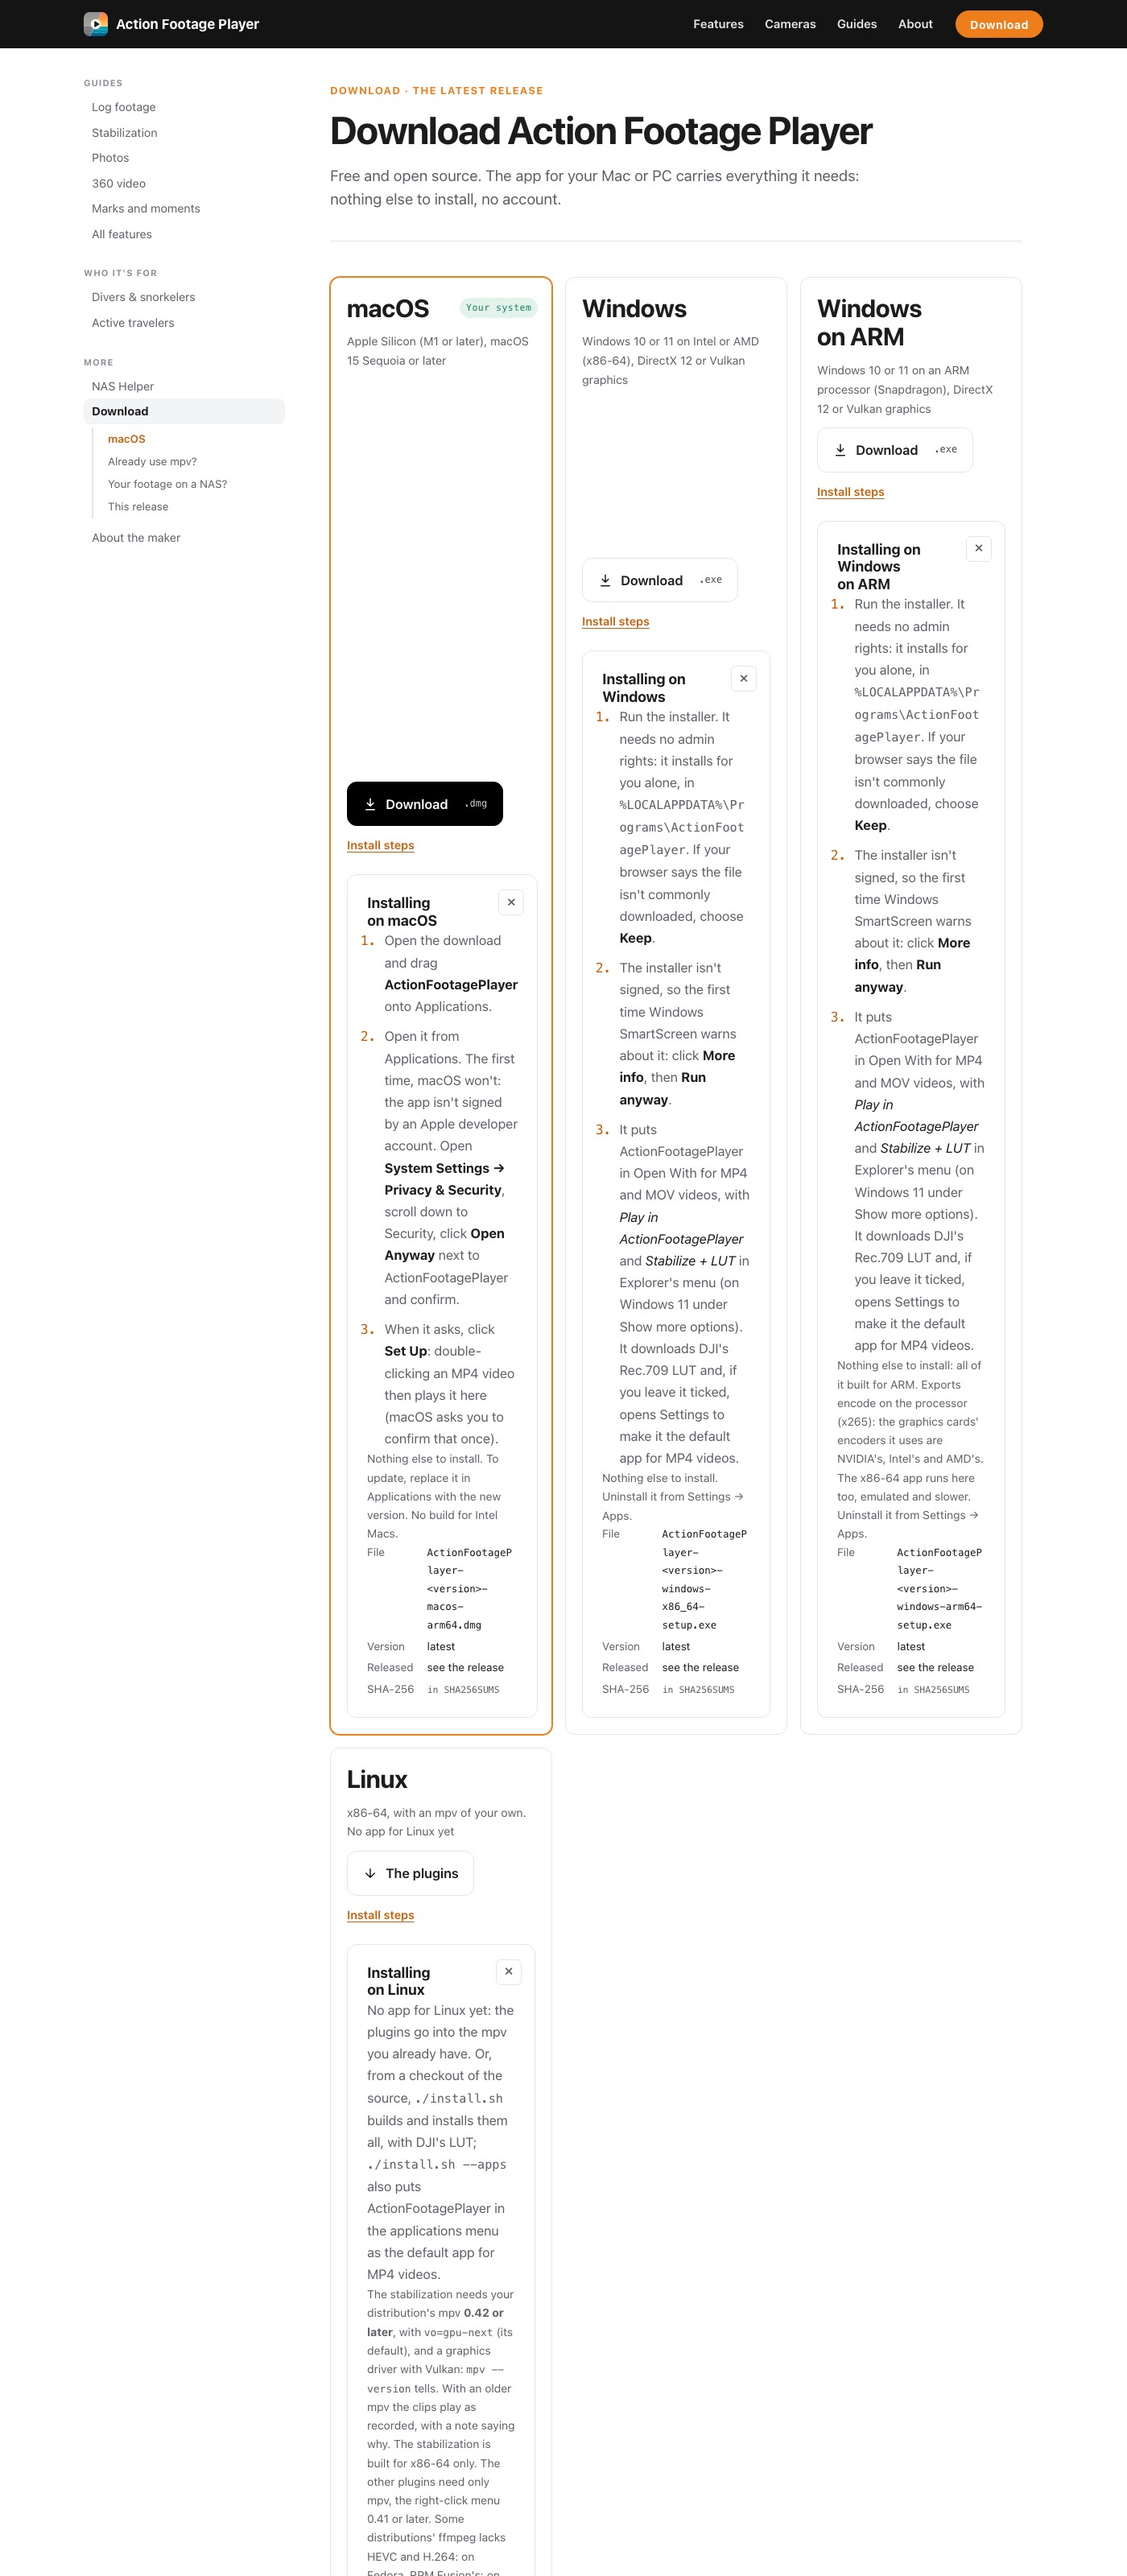
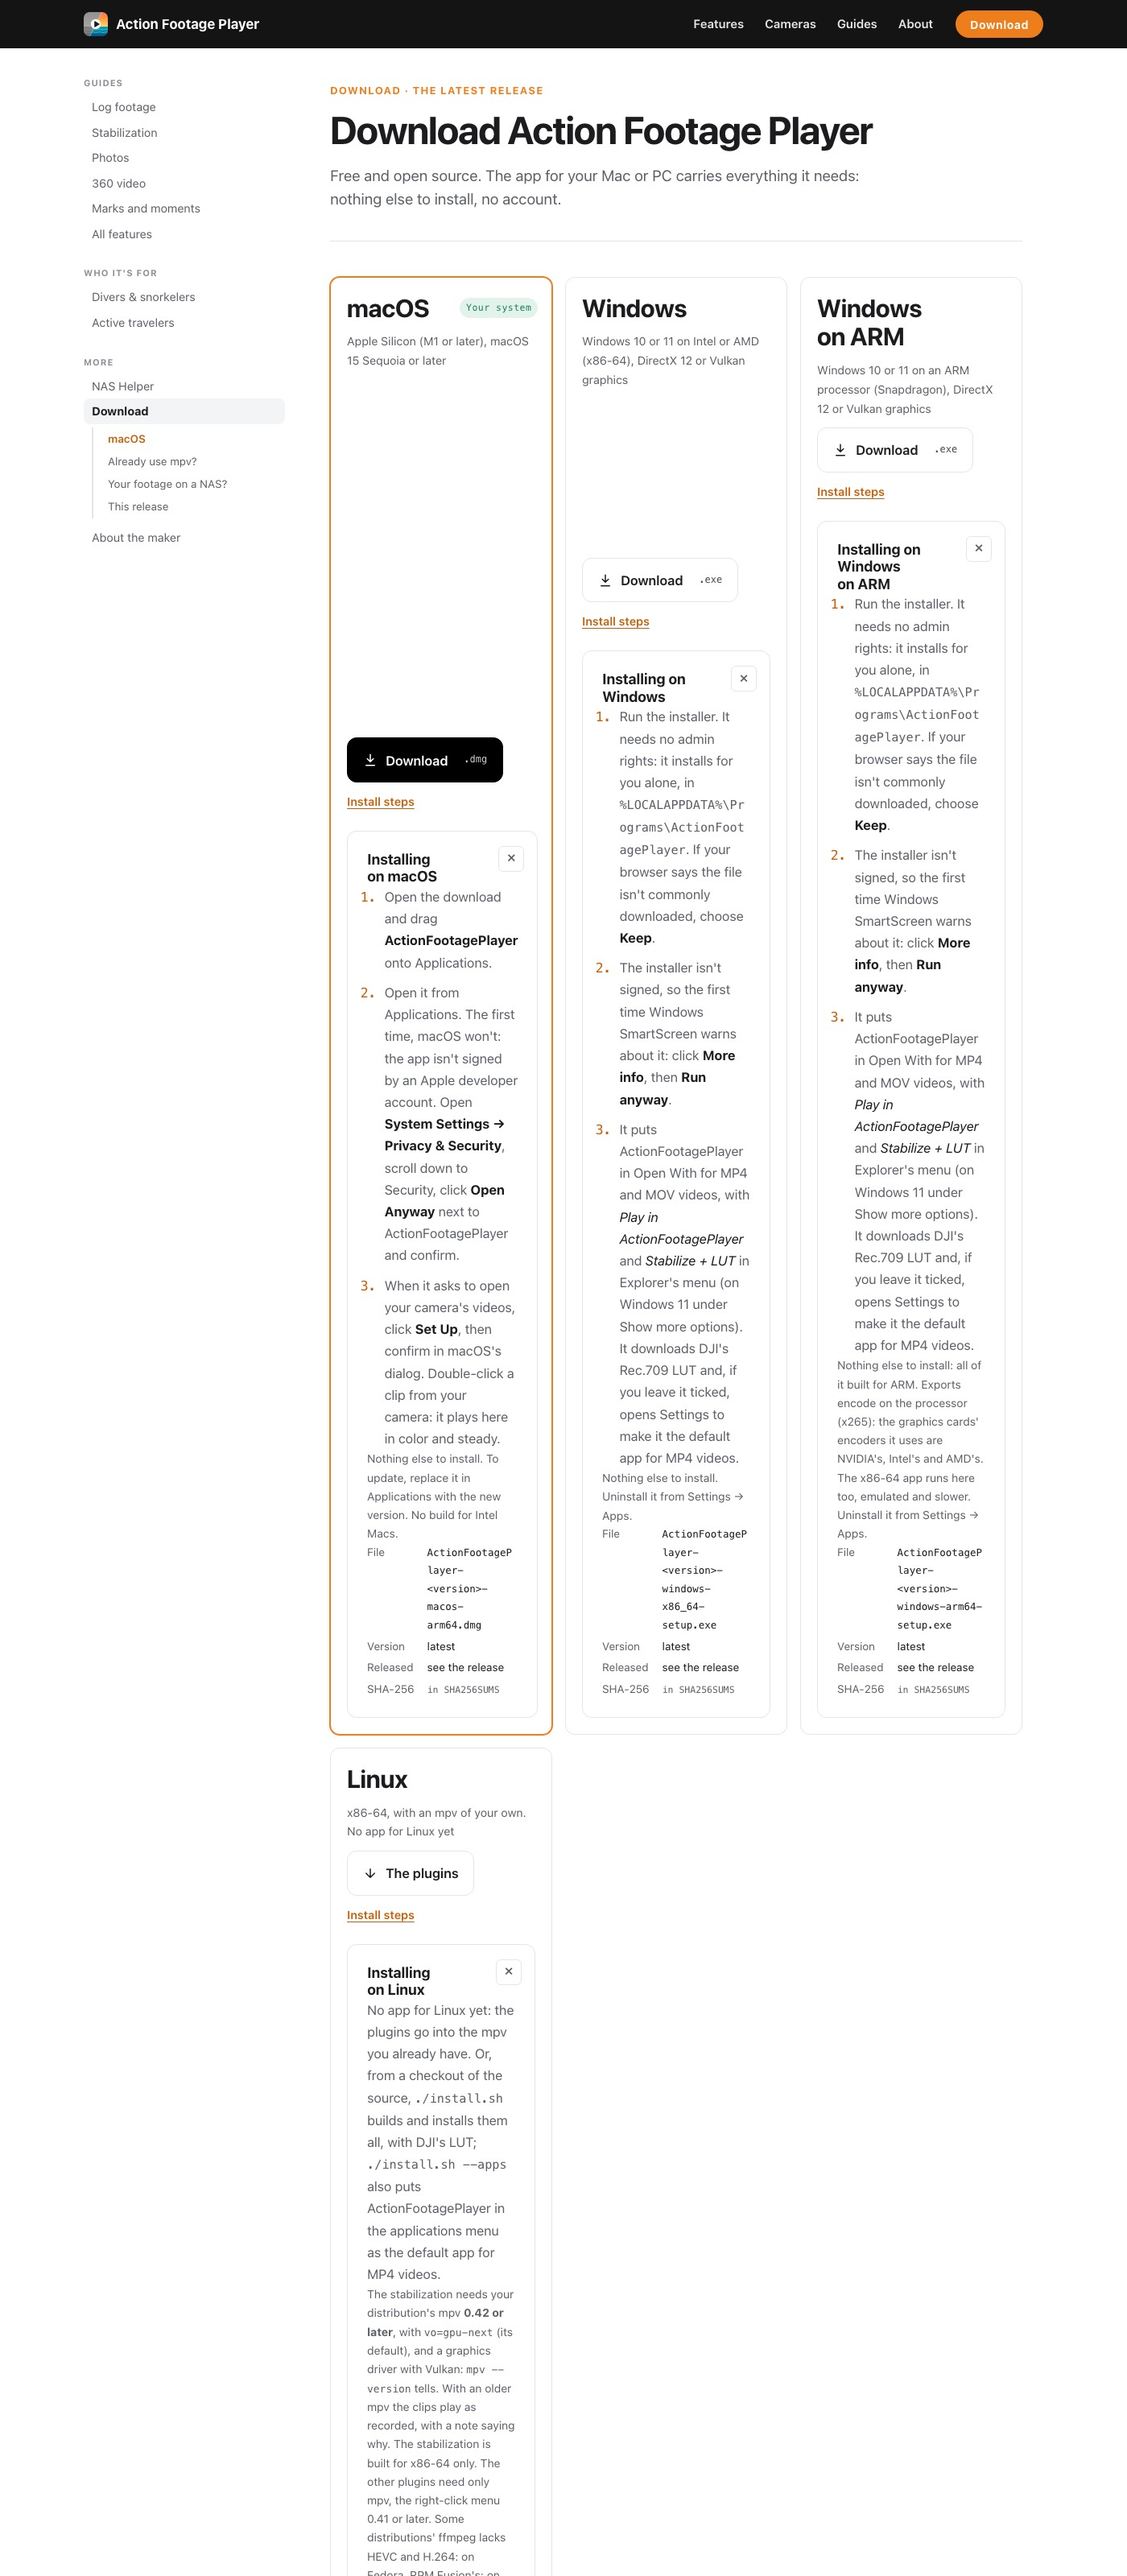
Download page: the Mac's last step in the first-run question's own words (#358)

Changed region(s): [[0.3071, 0.2812, 0.4607, 0.5625]]

diff --git a/website/pages/download.html b/website/pages/download.html
@@ -135,7 +135,7 @@
           <ol class="install">
             <li>Open the download and drag <b>ActionFootagePlayer</b> onto Applications.</li>
             <li>Open it from Applications. The first time, macOS won't: the app isn't signed by an Apple developer account. Open <b>System Settings → Privacy &amp; Security</b>, scroll down to Security, click <b>Open Anyway</b> next to ActionFootagePlayer and confirm.</li>
-            <li>When it asks, click <b>Set Up</b>: double-clicking an MP4 video then plays it here (macOS asks you to confirm that once).</li>
+            <li>When it asks to open your camera's videos, click <b>Set Up</b>, then confirm in macOS's dialog. Double-click a clip from your camera: it plays here in color and steady.</li>
           </ol>
           <p class="platform-note">Nothing else to install. To update, replace it in Applications with the new version. No build for Intel Macs.</p>
           <dl class="file-meta">

diff --git a/website/site/download.html b/website/site/download.html
@@ -96,7 +96,7 @@
           <ol class="install">
             <li>Open the download and drag <b>ActionFootagePlayer</b> onto Applications.</li>
             <li>Open it from Applications. The first time, macOS won't: the app isn't signed by an Apple developer account. Open <b>System Settings → Privacy &amp; Security</b>, scroll down to Security, click <b>Open Anyway</b> next to ActionFootagePlayer and confirm.</li>
-            <li>When it asks, click <b>Set Up</b>: double-clicking an MP4 video then plays it here (macOS asks you to confirm that once).</li>
+            <li>When it asks to open your camera's videos, click <b>Set Up</b>, then confirm in macOS's dialog. Double-click a clip from your camera: it plays here in color and steady.</li>
           </ol>
           <p class="platform-note">Nothing else to install. To update, replace it in Applications with the new version. No build for Intel Macs.</p>
           <dl class="file-meta">
